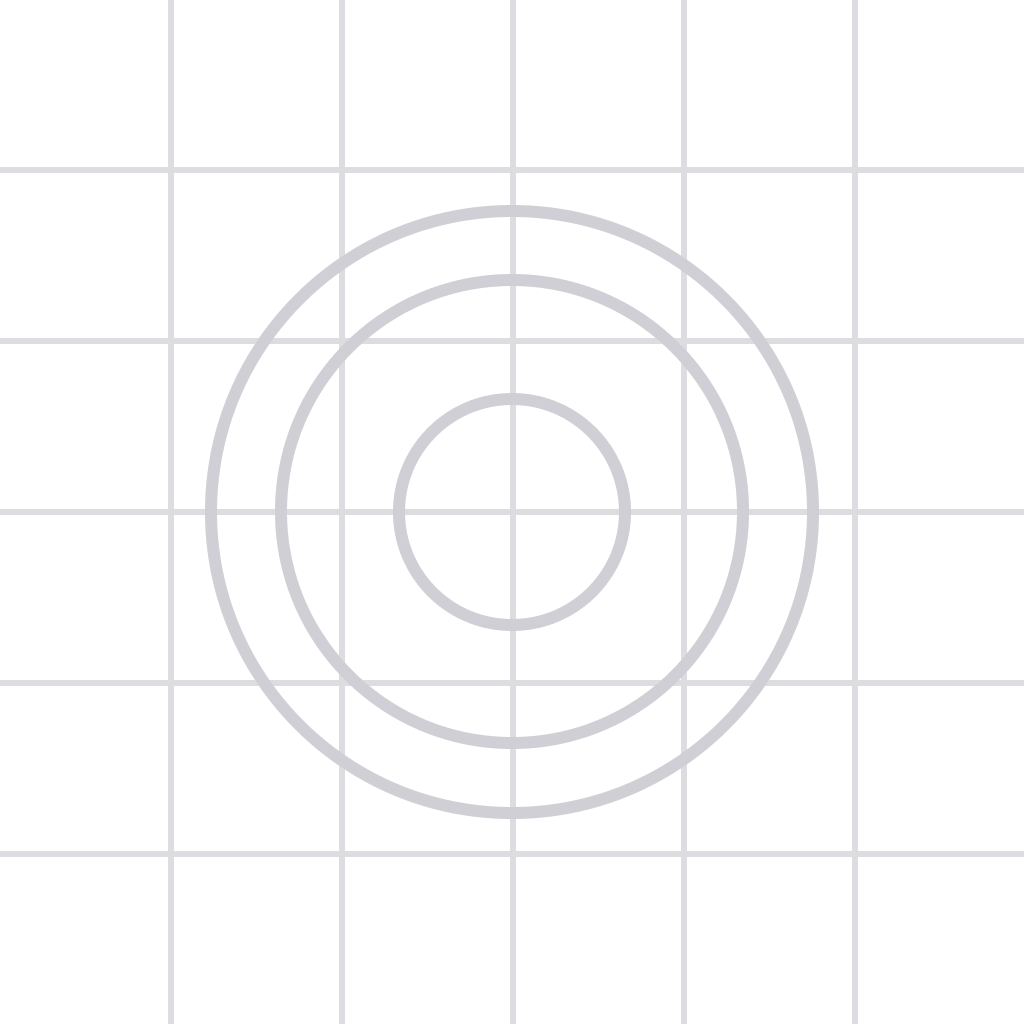
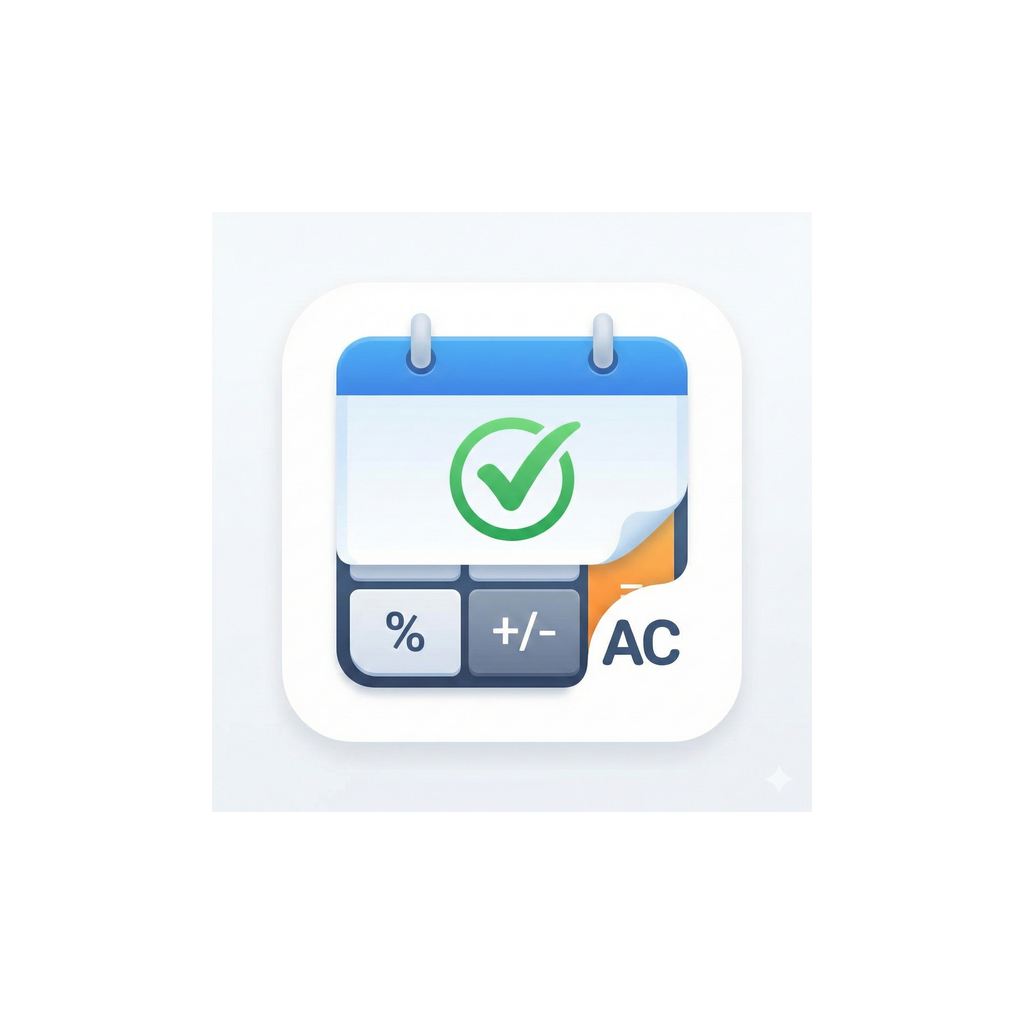
reduce app size

Changed region(s): [[0.0, 0.0, 1.0, 1.0]]

diff --git a/src/components/GradientCard.js b/src/components/GradientCard.js
@@ -1,3 +1,86 @@
-import AnimatedGradientCard from './AnimatedGradientCard';
-export default AnimatedGradientCard;
+import React from 'react';
+import { StyleSheet, Pressable } from 'react-native';
+import Animated, {
+  useSharedValue,
+  useAnimatedStyle,
+  withSpring,
+} from 'react-native-reanimated';
+import { LinearGradient } from 'expo-linear-gradient';
+import { useThemeContext } from '../utils/ThemeContext';
+import { shadows, gradients, animations } from '../constants/theme';
 
+const AnimatedPressable = Animated.createAnimatedComponent(Pressable);
+
+const GradientCard = ({
+  children,
+  gradient,
+  style,
+  onPress,
+  onLongPress,
+  ...props
+}) => {
+  const { isDark, theme } = useThemeContext();
+  const scale = useSharedValue(1);
+  const borderOpacity = useSharedValue(0);
+
+  const animatedStyle = useAnimatedStyle(() => {
+    return {
+      transform: [{ scale: scale.value }],
+      borderColor: isDark
+        ? `rgba(187, 134, 252, ${borderOpacity.value})`
+        : `rgba(109, 40, 217, ${borderOpacity.value})`,
+      borderWidth: 1.5,
+    };
+  });
+
+  const handlePressIn = () => {
+    scale.value = withSpring(0.97, animations.bouncySpring);
+    borderOpacity.value = withSpring(0.4, animations.springConfig);
+  };
+
+  const handlePressOut = () => {
+    scale.value = withSpring(1, animations.bouncySpring);
+    borderOpacity.value = withSpring(0, animations.springConfig);
+  };
+
+  const hasPress = typeof onPress === 'function' || typeof onLongPress === 'function';
+  const defaultGradient = isDark ? gradients.darkCard : gradients.lightCard;
+
+  return (
+    <AnimatedPressable
+      onPress={onPress}
+      onLongPress={onLongPress}
+      onPressIn={hasPress ? handlePressIn : undefined}
+      onPressOut={hasPress ? handlePressOut : undefined}
+      style={[
+        styles.card,
+        { backgroundColor: theme.colors.cardBackground, shadowColor: isDark ? '#000' : '#0F172A' },
+        animatedStyle,
+        style
+      ]}
+      {...props}
+    >
+      <LinearGradient
+        colors={gradient || defaultGradient}
+        start={{ x: 0, y: 0 }}
+        end={{ x: 1, y: 1 }}
+        style={styles.gradient}
+      >
+        {children}
+      </LinearGradient>
+    </AnimatedPressable>
+  );
+};
+
+const styles = StyleSheet.create({
+  card: {
+    overflow: 'hidden',
+    borderRadius: 16,
+    ...shadows.medium,
+  },
+  gradient: {
+    flex: 1,
+  },
+});
+
+export default GradientCard;

diff --git a/babel.config.js b/babel.config.js
@@ -2,6 +2,8 @@ module.exports = function (api) {
     api.cache(true);
     return {
         presets: ['babel-preset-expo'],
-        plugins: ['react-native-reanimated/plugin'],
+        plugins: [
+            'react-native-reanimated/plugin',
+        ],
     };
 };

diff --git a/App.js b/App.js
@@ -5,7 +5,6 @@ import { PaperProvider } from 'react-native-paper';
 import { NavigationContainer } from '@react-navigation/native';
 import { createStackNavigator, CardStyleInterpolators } from '@react-navigation/stack';
 import { createBottomTabNavigator } from '@react-navigation/bottom-tabs';
-import { MaterialCommunityIcons } from '@expo/vector-icons';
 import { StorageService } from './src/utils/storage';
 import { ThemeProvider, useThemeContext } from './src/utils/ThemeContext';
 

diff --git a/SIZE_AUDIT.md b/SIZE_AUDIT.md
@@ -1,0 +1,63 @@
+# Attendance App Size Audit
+
+This document provides a detailed breakdown of the application size contributors and assets for the Attendance Calculator Expo React Native application.
+
+---
+
+## 1. Baseline Metrics
+* **Baseline APK Size (EAS Build Preview):** **74.84 MB** (78,470,504 bytes)
+* **Production JS Bundle Size (Hermes HBC):** **5.06 MB** (5,064,288 bytes)
+* **Total Exported Assets Size (dist):** **8.73 MB** (9,151,223 bytes)
+
+---
+
+## 2. Key Size Contributors
+
+### A. Native Code & Libraries (Estimated APK Contribution: ~55 - 60 MB)
+By default, the Android release build does **not** have code minification (R8/Proguard) or resource shrinking enabled. This packages the entire compiled bytecode and assets of React Native, Expo SDK, and all native dependencies.
+* **Hermes Engine (`libhermes.so`):** Packages the runtime engine for executing JS.
+* **React Native Core (`libreactnative.so`):** Core framework native bindings.
+* **React Native Reanimated (`libreanimated.so`):** Native animation bindings.
+* **React Native Worklets (`libworklets.so`):** Native helper for Reanimated 4.
+
+### B. Font Assets (Estimated APK Contribution: ~2.5 MB)
+Metro and the Gradle build package all font assets from `@expo/vector-icons` even though the application only uses **MaterialCommunityIcons** for the tab bar.
+* **MaterialCommunityIcons.ttf:** 1.31 MB (Used)
+* **FontAwesome6_Solid.ttf:** 424 KB (Unused)
+* **Ionicons.ttf:** 390 kB (Unused)
+* **MaterialIcons.ttf:** 357 kB (Unused)
+* **Fontisto.ttf:** 314 kB (Unused)
+* **FontAwesome6_Brands.ttf:** 209 kB (Unused)
+* **FontAwesome5_Solid.ttf:** 203 kB (Unused)
+* **FontAwesome.ttf:** 166 kB (Unused)
+* **FontAwesome5_Brands.ttf:** 134 kB (Unused)
+* **AntDesign.ttf:** 130 kB (Unused)
+* **Others (Entypo, Feather, Octicons, etc.):** ~500 KB total (Unused)
+
+### C. Image Assets (Estimated APK Contribution: ~1.5 MB)
+* **`assets/icon.png` (5.9 MB):** The raw icon image is extremely large (2048x2048, uncompressed PNG) and carries a substantial overhead in the build context and raw file packaging.
+* **`assets/adaptive-icon.png` (17.5 KB):** Standard size, but not matching the logo.
+* **`assets/splash-icon.png` (17.5 KB):** Standard size, but not matching the logo.
+
+---
+
+## 3. Duplicate and Unused Code
+* **Unused Screens:**
+  * [HomeScreen.js](file:///e:/Projects%20of%202026/attendance-app/attendance-app-react-native/src/screens/HomeScreen.js) is completely unused (replaced by [DailyAttendanceScreen.js](file:///e:/Projects%20of%202026/attendance-app/attendance-app-react-native/src/screens/DailyAttendanceScreen.js)).
+* **Unused Components:**
+  * [GradientCard.js](file:///e:/Projects%20of%202026/attendance-app/attendance-app-react-native/src/components/GradientCard.js) is a simple re-export alias of `AnimatedGradientCard.js`. Consolidating imports will allow us to safely delete it.
+* **Unused Top-Level Dependencies:**
+  * `react-native-worklets` is explicitly declared in `package.json` dependencies, but it is transitively installed via `react-native-reanimated` and not used directly. We can safely remove it from top-level `package.json` to keep dependencies clean.
+
+---
+
+## 4. Size Reduction Opportunities
+
+| Optimization | Target Component | Estimated Savings |
+| :--- | :--- | :--- |
+| **Enable R8 Minification** | Android native build (`minifyEnabled true`) | **30 - 40 MB** |
+| **Enable Resource Shrinking** | Android native build (`shrinkResources true`) | **5 - 10 MB** |
+| **Exclude Unused Font Files** | Gradle asset packaging (Ignore unused `.ttf`) | **3.0 MB** |
+| **Compress & Resize Icon** | `assets/icon.png` (Resize 2048 -> 1024 + optimize) | **4.7 MB** |
+| **Babel Tree Shaking** | `react-native-paper/babel` imports optimization | **100 - 300 KB** |
+| **Code Cleanup** | Remove `HomeScreen.js` and consolidate aliases | **10 - 20 KB** |